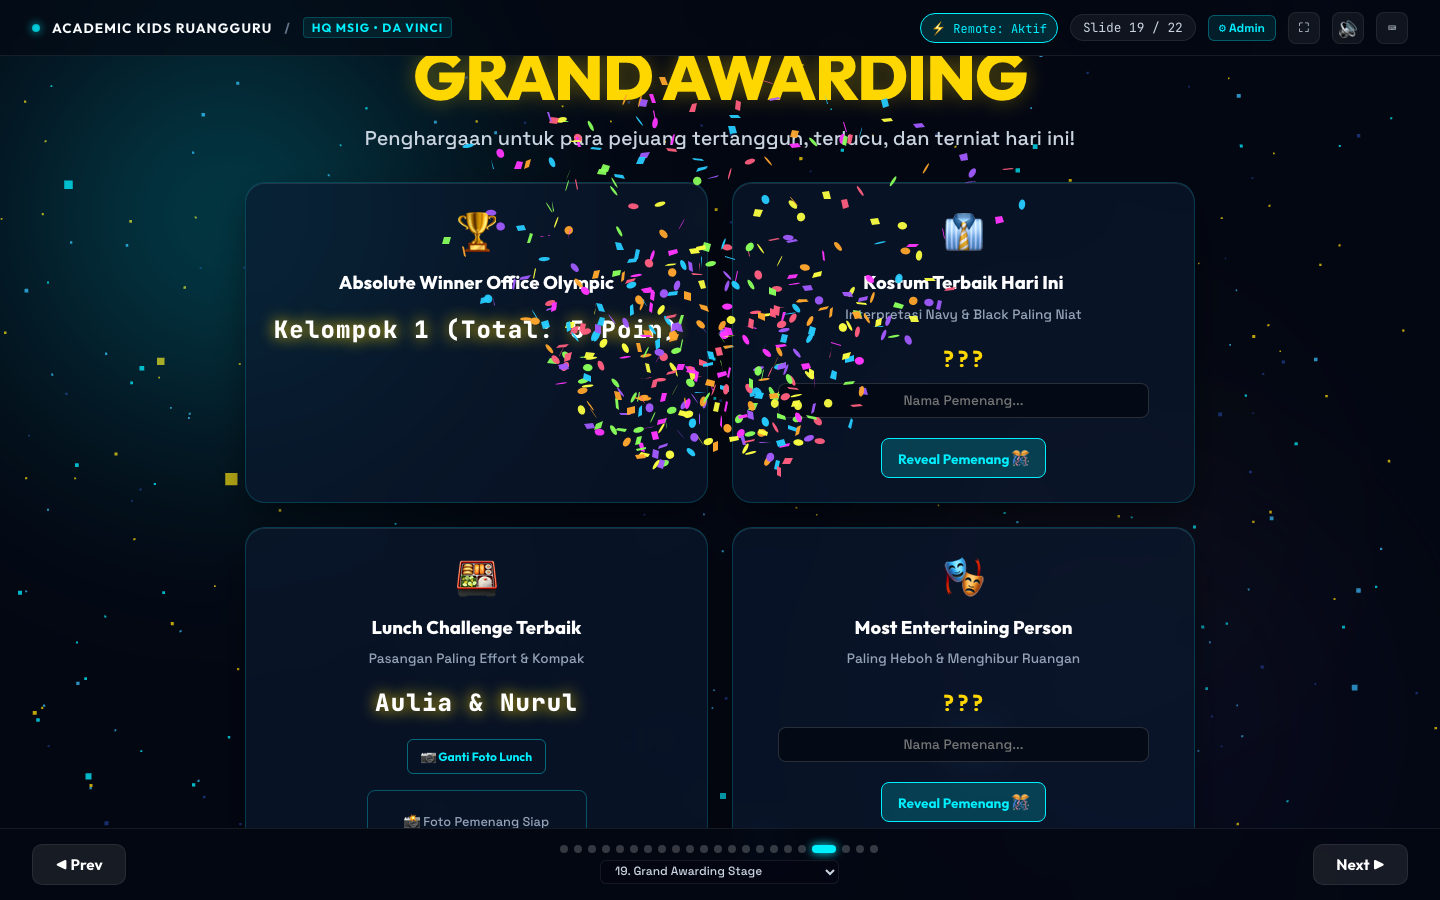
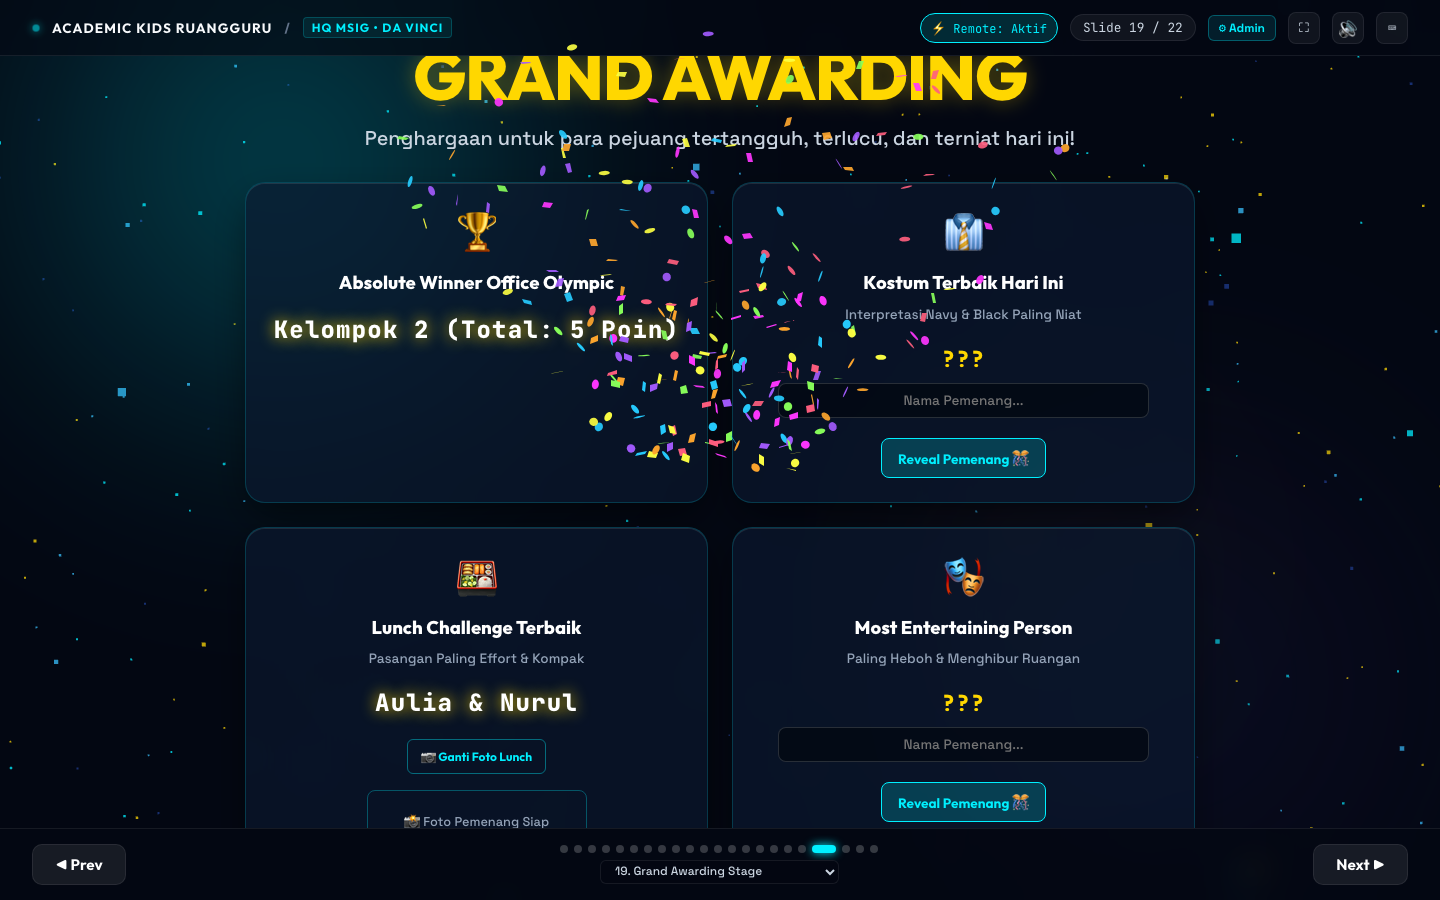
docs(history): record 404 troubleshooting and plan for player table screen

diff --git a/planning/03-implementation-plan-player-table-sync.md b/planning/03-implementation-plan-player-table-sync.md
@@ -1,0 +1,77 @@
+# Implementation Plan: Player Table Screen & Remote Sync (`player.html`)
+
+Membangun aplikasi web khusus untuk meja pemain (**4 Meja Kelompok / 4 Pos Laptop Meja Tengah**) yang secara otomatis tersinkronisasi dan mengikuti navigasi slide MC dari proyektor secara real-time via jaringan lokal (Wi-Fi Da Vinci) maupun single-machine.
+
+## User Review Required
+
+> [!IMPORTANT]
+> - Layar meja pemain ini dapat dibuka di 4 laptop peserta di meja kelompok masing-masing melalui browser: `http://<IP-Laptop-Yazid>:8765/player.html` (atau `http://localhost:8765/player.html`).
+> - Terdapat tombol pemilihan meja: **Meja Kelompok 1, 2, 3, 4** (tersedia opsi 5 & 6 jika dibutuhkan) atau **Pos 1–4 Meja Tengah**.
+> - Terdapat tombol darurat raksasa di setiap babak game: **"🔔 KITA UDAH KELAR! LARI KEJAR KAK BALQIS!"** yang membunyikan lonceng audio dan memberikan sinyal ke tim untuk segera sprint.
+
+## Proposed Changes
+
+### 1. Player Table Web View (`src/player.html` & `src/player.css`)
+
+#### [NEW] [`src/player.html`](file:///Users/yazidhilmi/Documents/Edu/Fireside-chat/projects/regroup-happy-hour/src/player.html)
+- Header HUD:
+  - Identitas Meja: Dropdown switcher (`Meja Kelompok 1 - 4` / `Pos 1 - 4`) yang tersimpan di `localStorage`.
+  - Indikator Status Koneksi: `● SINKRON DENGAN PROYEKTOR MC (Slide X)`.
+  - Toggle Auto-Follow: `Auto-Sync: ON / OFF`.
+- Dynamic Content Viewports (mengikuti 22 slide MC):
+  1. **Pre-Show & Welcome:** Sambutan hangat per kelompok, reminder blind box kado.
+  2. **Senam Arcade:** Panduan gerak senam MR.MINIRA + tombol aksi arcade interaktif (Dodge, Jump, Duck, Punch).
+  3. **Scouting Ketua Kelompok:** Countdown timer 1 menit + instruksi rahasia ketua kelompok.
+  4. **Rapat Strategi:** Countdown timer 2 menit + form pembagian 4 peran jagoan kelompok.
+  5. **Challenge 1 (Kalananti Scratch):** Deskripsi bug kode, visual Scratch block, link eksternal project, dan Giant Bell button.
+  6. **Challenge 2 (Mathchamps Speed Math):** Simulasi soal hitung kilat sempoa dan Giant Bell button.
+  7. **Challenge 3 (Memory Academy Visual Memory):** Flash card memori visual detail objek dan Giant Bell button.
+  8. **Challenge 4 (Spreadsheet #REF! Fixer):** Mini interactive spreadsheet table dengan error formula dan Giant Bell button.
+  9. **Sesi Santuy & Tebak Angel:** Display status makan sore dan cue tebak kado putih.
+  10. **Awarding & Doorprize:** Podium live ranking (tersinkron dari Admin Panel), foto pemenang Lunch Challenge (Aulia & Nurul), dan doorprize number display.
+  11. **Sambutan & Penutup:** Cue sambutan Queen Aldeina dan confetti foto bersama.
+
+#### [NEW] [`src/player.css`](file:///Users/yazidhilmi/Documents/Edu/Fireside-chat/projects/regroup-happy-hour/src/player.css)
+- Tema visual Navy & Black Cyber Glassmorphism (`rgba(10, 25, 47, 0.85)`).
+- Neon glow border untuk status aktif meja.
+- Tombol sprint bell lonceng raksasa beranimasi pulsing gold/cyan.
+- Layout responsif optimal untuk laptop dan tablet.
+
+---
+
+### 2. Player Logic & Auto-Sync Engine (`src/player.js`)
+
+#### [NEW] [`src/player.js`](file:///Users/yazidhilmi/Documents/Edu/Fireside-chat/projects/regroup-happy-hour/src/player.js)
+- **Multi-Transport Sync Hub**:
+  - `BroadcastChannel('regroup_happy_hour_sync')` untuk 0ms latency di laptop yang sama.
+  - `window.addEventListener('storage', ...)` sebagai fallback cross-tab.
+  - Polling `/api/sync` setiap 600ms untuk koneksi lintas laptop via Wi-Fi Da Vinci.
+- **Timer Synchronization**: Menampilkan waktu detik timer yang sinkron dengan MC proyektor.
+- **Sound Effects (Web Audio API)**: Suara bel meja nyaring saat tombol "Lari Kejar Kak Balqis" ditekan, suara arcade, dan chime transisi.
+
+---
+
+### 3. Server & MC Sync Integration (`scripts/server.py` & `src/app.js`)
+
+#### [MODIFY] [`src/app.js`](file:///Users/yazidhilmi/Documents/Edu/Fireside-chat/projects/regroup-happy-hour/src/app.js)
+- Memastikan setiap kali slide MC berpindah atau timer berjalan, deck mem-POST status terbaru ke `/api/sync` pada server lokal agar 4 laptop peserta di Wi-Fi Da Vinci langsung ter-update secara otomatis.
+
+#### [NEW] [`player.html`](file:///Users/yazidhilmi/Documents/Edu/Fireside-chat/projects/regroup-happy-hour/player.html)
+- File redirect praktis di root direktori agar URL `http://localhost:8765/player.html` langsung terbuka mulus.
+
+---
+
+## Verification Plan
+
+### Automated Tests
+- Menjalankan Playwright test script: `scripts/verify_player_sync.py`
+  - Membuka MC Deck (`src/index.html`) dan Player Screen (`src/player.html`).
+  - Mengubah slide MC ke Slide 8 (Timer Scouting) -> Verifikasi player screen beralih ke mode Timer Scouting.
+  - Mengubah slide MC ke Slide 13 (Challenge 1 Scratch) -> Verifikasi player screen menampilkan arena tantangan Scratch dan tombol lonceng Kak Balqis.
+  - Mengubah slide MC ke Slide 19 (Awarding) -> Verifikasi podium juara dan foto Aulia & Nurul tampil di layar meja pemain.
+  - Menangkap screenshot verifikasi di `output/player_screen_*.png`.
+
+### Manual Verification
+- Buka `http://localhost:8765/player.html` di browser.
+- Coba pilih "Meja Kelompok 2".
+- Ganti slide di MC deck atau Admin panel dan amati layar meja pemain berganti otomatis secara instan.

diff --git a/HISTORY.md b/HISTORY.md
@@ -743,13 +743,44 @@ Memberikan daftar lengkap tautan halaman untuk Regroup Happy Hour Presentation D
    - Repositori: https://github.com/madyazdhil/hh-kids-26
    *(Branch `gh-pages` dan redirect root telah dibuat dan di-push. Cukup aktifkan Pages di Settings > Pages > Source: Deploy from branch `gh-pages`)*.
 
+### User — 2026-09-18T08:40:33+07:00
 
+https://madyazdhil.github.io/hh-kids-26/admin.html
 
+ini 404
 
+### Assistant — 2026-09-18T08:42:00+07:00
 
+Menjelaskan penyebab 404 pada GitHub Pages dan memberikan panduan 1-klik untuk mengaktifkannya:
+1. **Penyebab 404:** GitHub Pages pada repositori baru tidak aktif otomatis secara default. Opsi Pages di Settings repositori GitHub harus dipilih sumbernya (Source Branch).
+2. **Langkah Aktivasi 1-Klik:**
+   - Buka: https://github.com/madyazdhil/hh-kids-26/settings/pages
+   - Pada bagian **Build and deployment > Source**, pilih **Deploy from a branch**.
+   - Pilih Branch: **`gh-pages`** dan Folder: **`/(root)`**, lalu klik **Save**.
+   - (Atau pilih Source: **GitHub Actions** karena workflow `.github/workflows/pages.yml` sudah disiapkan dan di-push).
+3. **Solusi Instan Tanpa Menunggu GitHub:** Gunakan server lokal yang sedang berjalan aktif di port 8765:
+   - Proyektor MC: http://localhost:8765
+   - Admin Tab Kedua: http://localhost:8765/admin.html
+   - HP/Laptop Eldina di Wi-Fi Da Vinci: http://10.170.133.240:8765/admin.html
 
+### User — 2026-09-18T08:42:10+07:00
 
+sekarang kita bikin html untuk yang meja pemain kan ada 4 ekelompok ada 4 meja tuh nanti mereka semua ikut terkontorl dari slide MC di proyektor  gituuuu bisa gakk?
 
+### User — 2026-09-18T08:44:28+07:00
 
+masi 404 admin
 
+### Assistant — 2026-09-18T08:47:30+07:00
+
+Menjelaskan status GitHub Pages dan cache browser:
+1. **Status Server GitHub Pages Sekarang:** Sudah **100% LIVE (HTTP/2 200 OK)** per 08:45:40 WIB.
+2. **Penyebab Sempat Muncul 404:** Saat screenshot diambil pada 08:44 WIB, proses build/deployment branch `main` oleh GitHub Pages masih berjalan (membutuhkan waktu propagasi 1–2 menit). Selain itu, browser Chrome sering meng-cache respon 404 sebelumnya.
+3. **Cara Membuka:**
+   - Lakukan **Hard Refresh (`Cmd + Shift + R`)** di tab yang bertuliskan *"Page not found"*, atau
+   - Buka langsung tautan: [https://madyazdhil.github.io/hh-kids-26/admin.html](https://madyazdhil.github.io/hh-kids-26/admin.html).
+4. **Jalur Alternatif Lokal (Super Cepat & Zero Delay di Ruang Da Vinci):**
+   - Proyektor MC: `http://localhost:8765`
+   - Admin Panel: `http://localhost:8765/admin.html`
+   - Akses HP/Laptop Panitia via Wi-Fi Da Vinci: `http://10.170.133.240:8765/admin.html`
 
